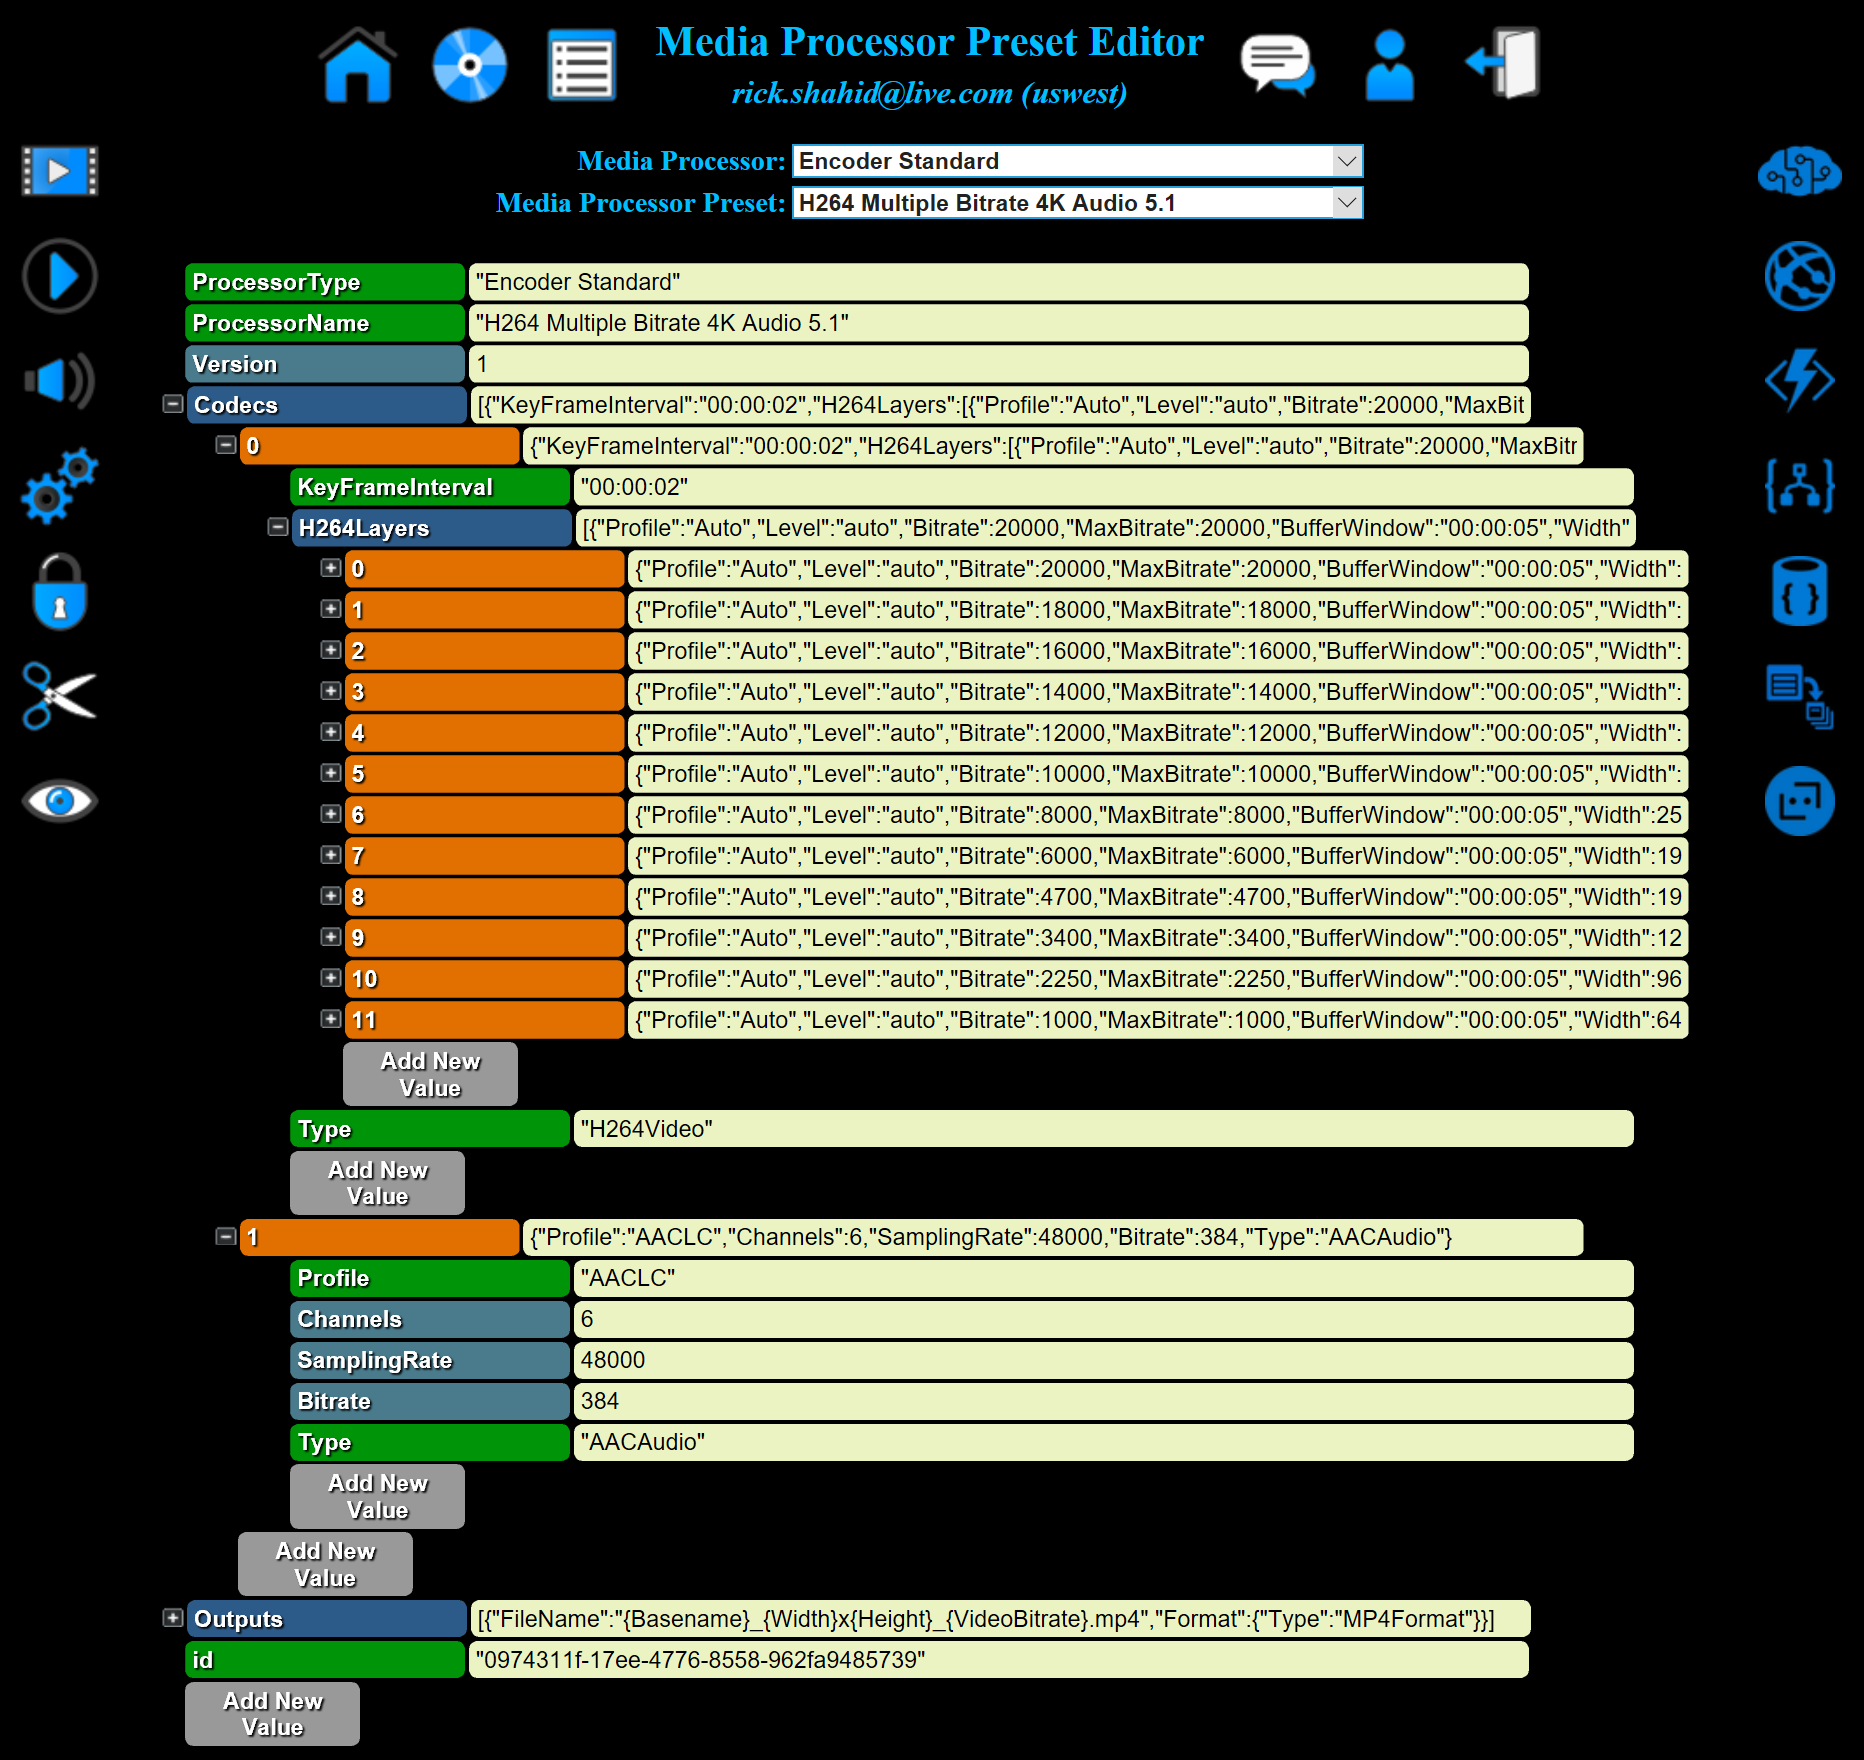
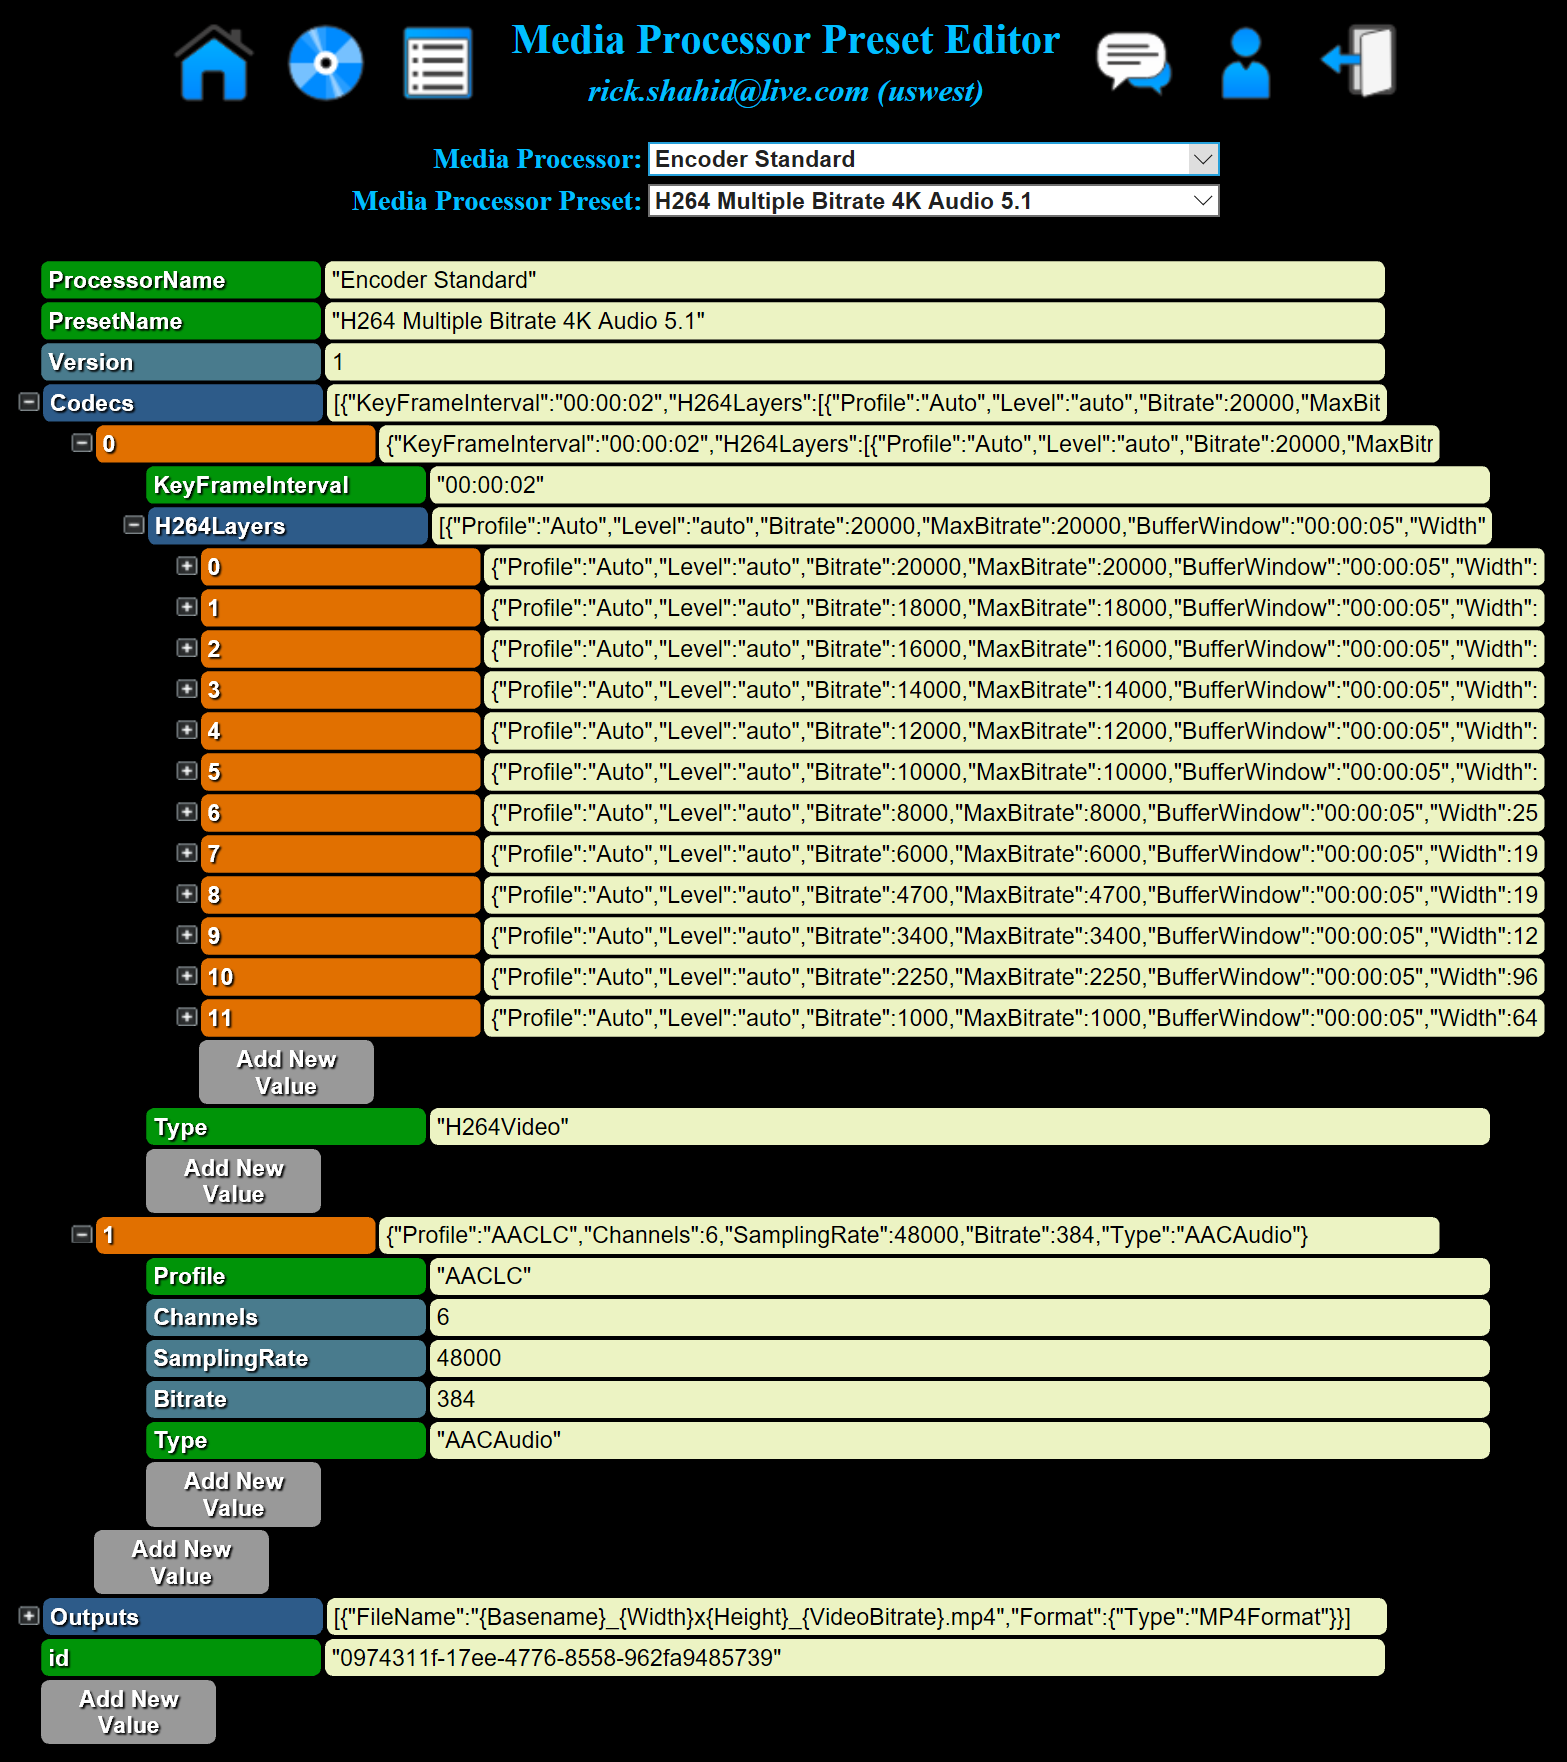
Baseline

diff --git a/WebApp/Controllers/presetController.cs b/WebApp/Controllers/presetController.cs
@@ -30,7 +30,7 @@ namespace AzureSkyMedia.WebApp.Controllers
             string procedureId = Constant.Database.Procedure.ProcessorConfig;
             using (DocumentClient documentClient = new DocumentClient())
             {
-                preset = documentClient.ExecuteProcedure(collectionId, procedureId, "ProcessorName", presetName);
+                preset = documentClient.ExecuteProcedure(collectionId, procedureId, "PresetName", presetName);
             }
             return Json(preset);
         }
